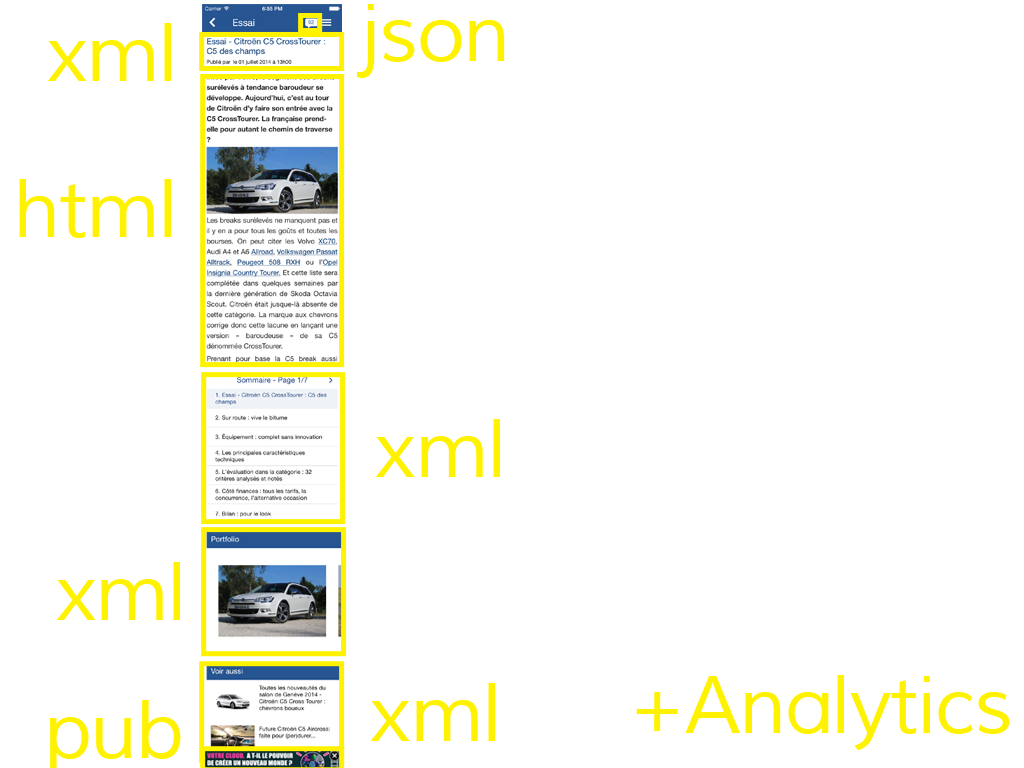
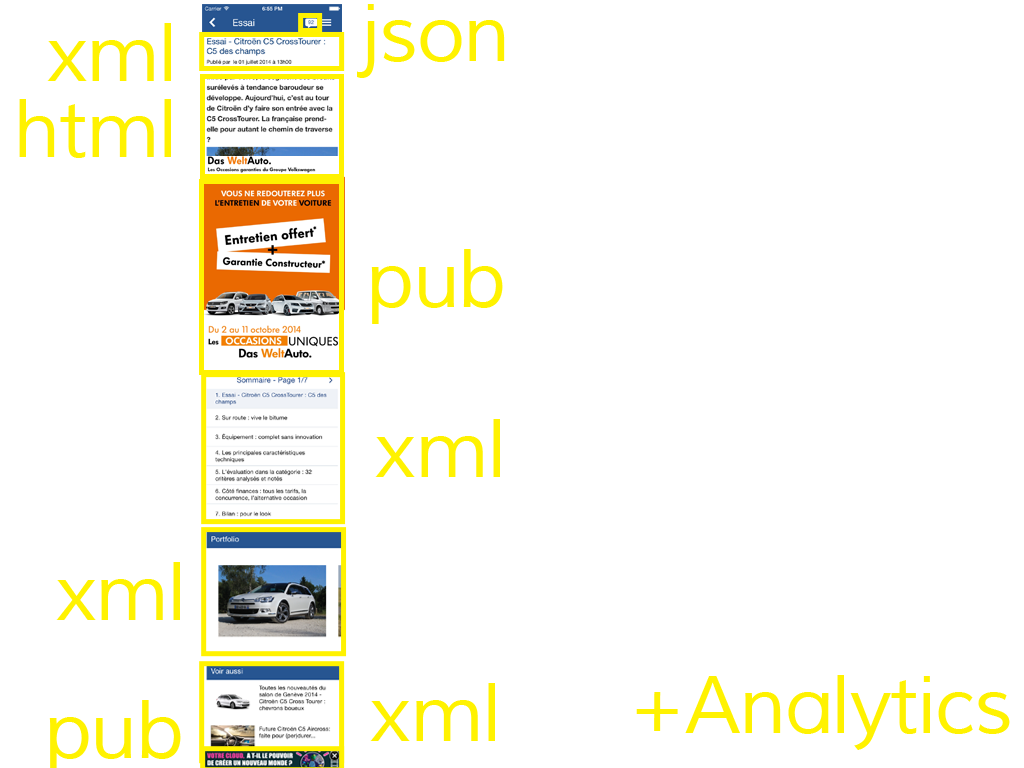
Add dev slides

Changed region(s): [[0.0, 0.125, 0.5, 0.5]]

diff --git a/slides.md b/slides.md
@@ -28,6 +28,9 @@ Ce que vous pouvez aussi retenir, c'est ce que renvoie la recherche Google Image
 ^ [G]
 Mais ce qu'il faut retenir
 
+Ici on bash un peu mais le projet s'est plutot bien deroule dans l'ensemble malgré la non agilité évidente de notre PO qu'on a tenté de remettre sur le bon chemin a quelques reprises
+
+
 ---
 
 # Plan
@@ -95,6 +98,10 @@ Non... normal on en avait pas
 ---
 
 # Intro
+
+---
+
+# Les besoins Android
 
 ![](images/dev_android_requirements.gif)
 
@@ -244,7 +251,6 @@ Au niveau de la méthodo, on a pris le choix de tout piloter par Excel<br />
 
 ^[S]
 car le code des WS est savoureux
-alt: http://i.giphy.com/5MNqK3rQNl1Ze.gif
 
 ---
 
@@ -268,6 +274,12 @@ La qualité du code de l'appli ne nous preoccupe pas trop...
 # Les outils
 
 ![](images/dev_kif.png)
+
+---
+
+# Les outils
+
+![](images/dev_ci.png)
 
 ^[S]
 Mais heureusement qu'on a des bons outils
@@ -566,6 +578,15 @@ Eh oui, Caradisiac aime la pub
 
 # Publicité
 
+![original,inline](images/pub_04.png)
+
+^[S]
+...partout
+
+---
+
+# Publicité
+
 ![original,inline](images/pub_01.png)
 
 ^[S]
@@ -604,7 +625,7 @@ Mais comme beaucoup d'histoires d'amour, elles peuvent mal tourner
 # [fit] Publicité
 
 ^ [S]
-En fait la pub chez Caradisiac c'est plutôt grande histoire d'amour
+Au fait la pub chez Caradisiac c'est plutôt grande histoire d'amour
 
 ---
 
@@ -675,9 +696,8 @@ Bannières dans les screenshots
 
 # Conclusions
 
----
-
-TODO
+^ [G]
+En commençant par la conclusion...
 
 ---
 
@@ -695,9 +715,9 @@ On va vous parler de Caradisiac, une appli de news auto (comme turbo ou auto plu
 
 ^ [G]
 Mais merci d'être venus si nombreux<br />
-[? autre]
+[S]
 Même si vous aviez pas trop le choix<br />
-[?]
+[G]
 Vous êtes vraiment un public formidable
 
 ---
